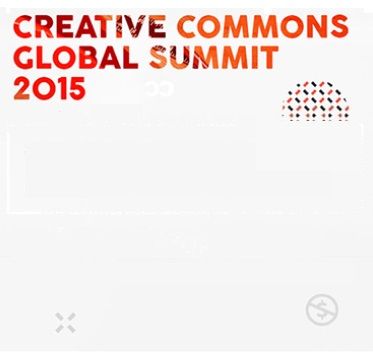
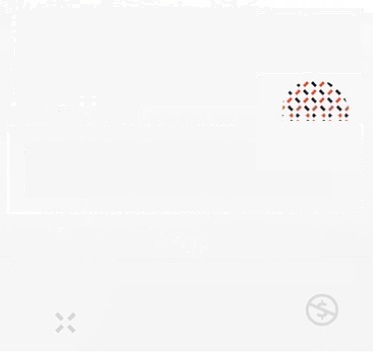
Fixing errors required by review.

Changed region(s): [[0.0295, 0.0312, 0.9437, 0.3125]]

diff --git a/index.html b/index.html
@@ -28,10 +28,10 @@
           <ul id="navigation-list">
             <li id="nav-navigation-list-item"><a href="index.html">Home</a></li>
             <li id="nav-navigation-list-item"><a href="about.html">About</a></li>
-            <li id="nav-navigation-list-item"><a href="index.html">Program</a></li>
-            <li id="nav-navigation-list-item"><a href="index.html">Join</a></li>
-            <li id="nav-navigation-list-item"><a href="index.html">Sponsor</a></li>
-            <li id="nav-navigation-list-item"><a href="index.html">News</a></li>
+            <li id="nav-navigation-list-item"><a href="index.html#program">Program</a></li>
+            <li id="nav-navigation-list-item"><a href="index.html#speakers-section">Join</a></li>
+            <li id="nav-navigation-list-item"><a href="index.html#partners">Sponsor</a></li>
+            <li id="nav-navigation-list-item"><a href="about.html#see-past">News</a></li>
           </ul>
           <div id="navigation-cccampaing">CC Campaign</div>
         </div>
@@ -44,6 +44,7 @@
           <h2 id="hero-superior-title">"Hello! Sharing world"</h2>
         </div>
         <div id="hero-inferior">
+          <h2 id="hero-inferior-title">CREATIVE COMMONS<br>GLOBAL SUMMIT <br>2015</h2>
           <p id="hero-inferior-paraf">A joyful celebration believing in the value of openness and sharing, creating a positive change with people from over 80 countries is taking place in October, in Korea.</p>
           <h4 id="hero-inferior-date">2015.10.15(THU)-16(FRI)</h4>
           <h5 id="hero-inferior-mention">@ National Museum of Korea, Art Center Nabiand more</h5>

diff --git a/css/style.css b/css/style.css
@@ -122,8 +122,11 @@ ul {
   background: transparent;
   margin: 1vw 0 18vw 4vw;
   text-align: start;
-  color: #ec5242;
-  font-weight: bold;
+  color: transparent;
+  background-clip: text;
+  -webkit-background-clip: text;
+  background-image: url("../images/fire4.jpg");
+  font-weight: 500;
   font-size: 8vw;
   line-height: 8vw;
   font-family: Paytone One, sans-serif;
@@ -131,7 +134,7 @@ ul {
 
 #hero-inferior-paraf {
   background: transparent;
-  padding: 38vw 7vw 4vw 7vw;
+  padding: 2vw 7vw 4vw 7vw;
   margin: 0;
   text-align: start;
   color: #868686;
@@ -674,15 +677,18 @@ ul {
     margin: 0;
     text-align: start;
     font-weight: lighter;
+    background-clip: text;
+    -webkit-background-clip: text;
+    background-image: url("../images/fire4.jpg");
     font-size: 5vw;
     line-height: 5vw;
-    color: #ec5242;
+    color: transparent;
     font-family: Paytone One, sans-serif;
   }
 
   #hero-inferior-paraf {
     background: transparent;
-    padding: 17.7vw 44vw 0 15vw;
+    padding: 5.7vw 44vw 0 15vw;
     margin: 0;
     text-align: start;
     color: #868686;

diff --git a/about.html b/about.html
@@ -28,10 +28,10 @@
           <ul id="navigation-list">
             <li id="nav-navigation-list-item"><a href="index.html">Home</a></li>
             <li id="nav-navigation-list-item"><a href="about.html">About</a></li>
-            <li id="nav-navigation-list-item"><a href="index.html">Program</a></li>
-            <li id="nav-navigation-list-item"><a href="index.html">Join</a></li>
-            <li id="nav-navigation-list-item"><a href="index.html">Sponsor</a></li>
-            <li id="nav-navigation-list-item"><a href="index.html">News</a></li>
+            <li id="nav-navigation-list-item"><a href="index.html#program">Program</a></li>
+            <li id="nav-navigation-list-item"><a href="index.html#speakers-section">Join</a></li>
+            <li id="nav-navigation-list-item"><a href="index.html#partners">Sponsor</a></li>
+            <li id="nav-navigation-list-item"><a href="about.html#see-past">News</a></li>
           </ul>
           <div id="navigation-cccampaing">CC Campaign</div>
         </div>
